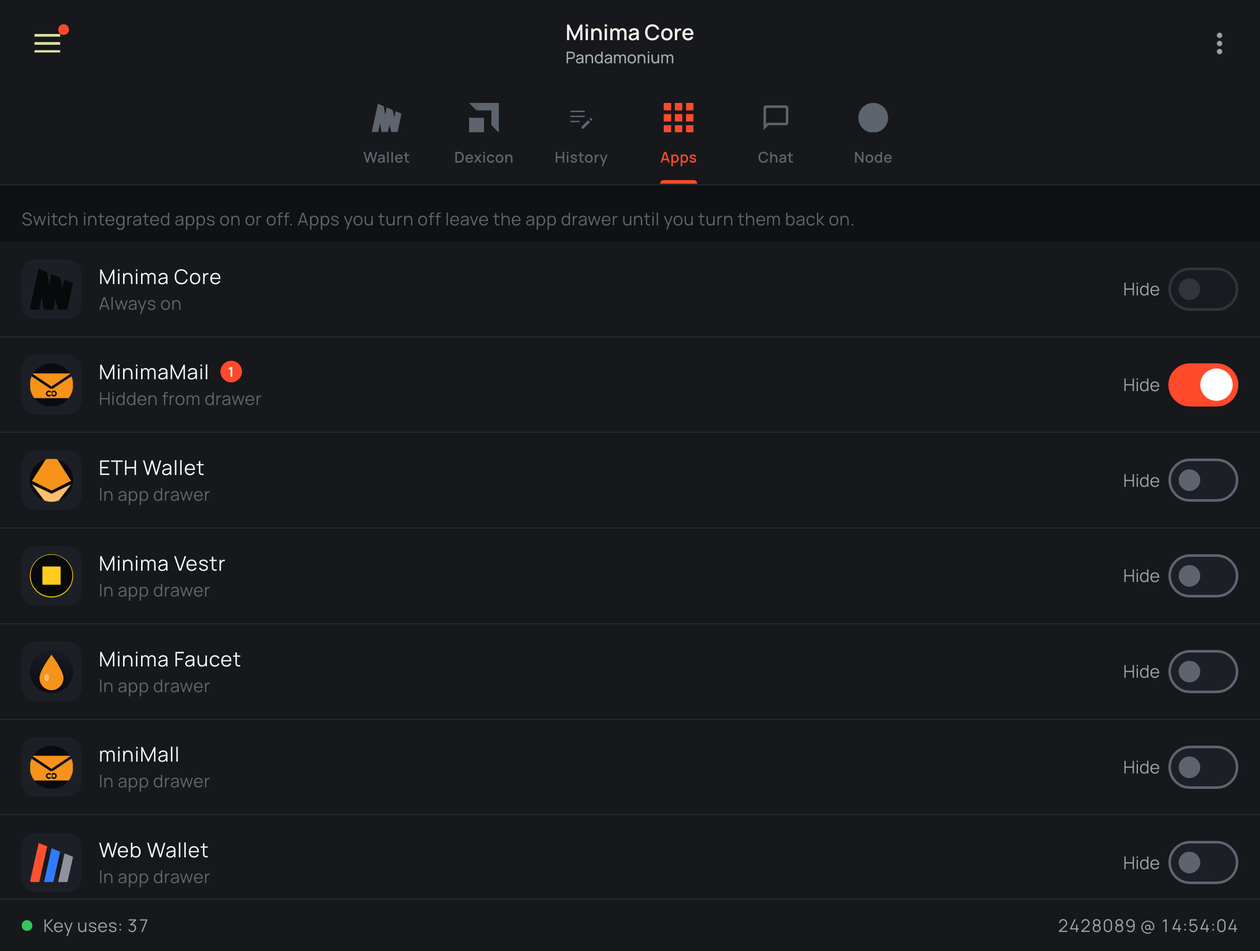
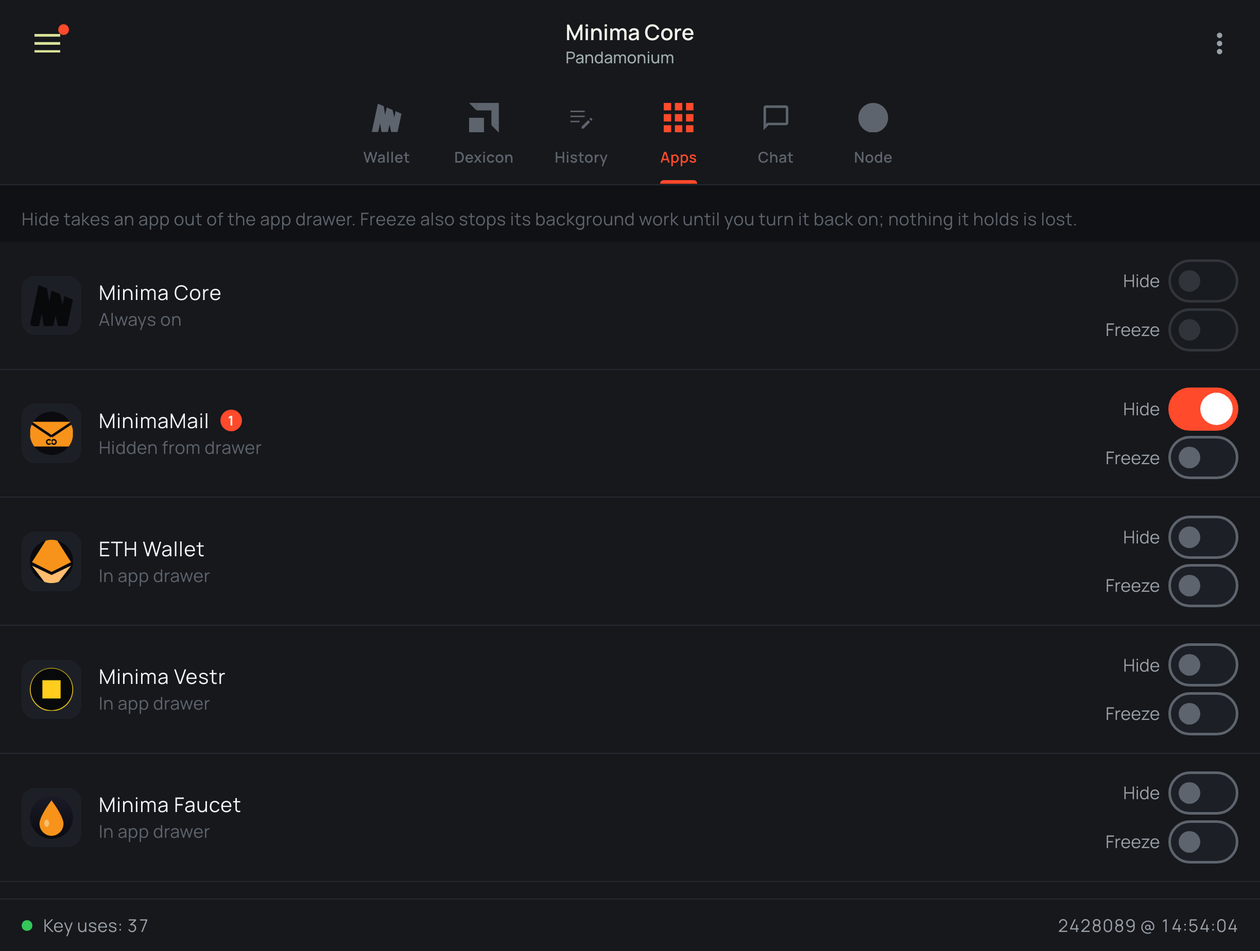
0.19.117: the Apps tab's Freeze switch: each app has Hide and Freeze; Freeze stops the app's background work (mail scan, miniMall scan, Vestr poll, Chat drain, Dexicon's three engines by the wallet-replacement hold), keeps its data, puts its drawer row away, is saved and honoured at startup; Dexicon
Claude-Session: https://claude.ai/code/session_01P3zos5bMGMNjR4T6fhfPNh

diff --git a/main/freeze.js b/main/freeze.js
@@ -1,0 +1,102 @@
+/*
+ * freeze.js — the Apps tab's Freeze switch (0.19.117), after Pandamonium's (PandamoniumHooks.setIntegratedFrozen):
+ * a frozen app does no background work until it is unfrozen, and its data is left exactly as it is.
+ *
+ *   what Freeze stops       mail      the scan for new mail and the address beacon renewals
+ *                           minimall  the scan for orders, payments and messages
+ *                           vestr     its block poll
+ *                           chat      the message drain and the file transfers' loop
+ *                           dexicon   the three trading engines (AtomiX, PandaPools, the Exchange), by the same hold
+ *                                     a wallet replacement uses: nothing is published, answered, scanned or signed
+ *                           ethwallet, faucet, webwallet   nothing: they do no work while closed (the switch only
+ *                                     puts them away)
+ *   never frozen            core (the node and the wallet), parlons (the account is part of the node itself)
+ *
+ * REFUSED WHILE MONEY IS IN FLIGHT. Dexicon is not frozen while a swap, a live market or OTC offer, an unanswered or
+ * unsettled Exchange trade, an order with coins behind it, an unconfirmed pool transaction or an open pool of this
+ * wallet exists, or while any of that cannot be read: each needs the engine running to be claimed, refunded, voided
+ * or kept up. What could not be asked is refused too, and said. (P2P Chance, removed in 0.18.68, has no row: its
+ * settle-only loop runs only while a bet is open and is not something to freeze.)
+ *
+ * The list is kept in the app's config (frozenApps) and honoured at startup: a frozen app's loop is never started
+ * (every start site in main.js goes through start(id)), and Dexicon's engines are held before the node is up.
+ */
+const FREEZABLE = ["mail", "ethwallet", "vestr", "faucet", "minimall", "webwallet", "dexicon", "chat"];
+const NEVER = { core: "Minima Core is the node and the wallet. It cannot be frozen.", parlons: "Parlons is part of the node itself: its account runs inside it. It cannot be frozen. Hide takes it out of the drawer." };
+const clean = (list) => [...new Set((Array.isArray(list) ? list : []).filter(id => FREEZABLE.includes(id)))];
+
+/** Why Dexicon may not be frozen now: [] = nothing in flight and everything could be read. Pure. */
+function dexiconBlockers(w) {
+  w = w || {}; const out = [], n = (k, one, many) => (k === 1 ? "1 " + one : k + " " + (many || one + "s"));
+  const ax = w.atomix;
+  if (!ax) out.push("AtomiX could not be asked about its swaps");
+  else {
+    const swaps = Array.isArray(ax.swaps) ? ax.swaps.length : 0;
+    if (swaps) out.push(n(swaps, "AtomiX swap") + " not finished");
+    if (!ax.ready && ax.hasStore && !Array.isArray(ax.swaps)) out.push("AtomiX has not started, so its swaps could not be read");
+    if (ax.maker) out.push("your AtomiX market is on the book (withdraw it first)");
+    if (ax.otcOffer) out.push("your AtomiX OTC availability is live (withdraw it first)");
+    if (ax.otcDeals) out.push(n(ax.otcDeals, "AtomiX OTC deal") + " open");
+  }
+  const pool = w.pools;
+  if (!Array.isArray(pool)) out.push("PandaPools has not started, so its transactions could not be read");
+  else { const k = pool.filter(r => r && r.type !== "STATUS" && !r.failed && !r.confirmed && (w.now || Date.now()) - Number(r.ts || 0) < 3600000).length; if (k) out.push(n(k, "pool transaction") + " not confirmed yet"); }
+  if (w.ownPools == null) out.push("your pools could not be read");
+  else if (w.ownPools.length) out.push(n(w.ownPools.length, "pool") + " of this wallet " + (w.ownPools.length === 1 ? "is" : "are") + " open (the app keeps " + (w.ownPools.length === 1 ? "it" : "them") + " up)");
+  const dx = w.dexicon;
+  if (dx == null) out.push("the Exchange could not be asked about its trades");
+  else {
+    if (!dx.ready && dx.hasStore && typeof dx.takes !== "number") out.push("the Exchange has not started, so its trades could not be read");
+    if (dx.takes > 0) out.push(n(dx.takes, "Exchange trade") + " sent and not yet answered");
+    if (dx.unknown > 0) out.push(n(dx.unknown, "Exchange fill") + " with an outcome not known yet");
+    if (dx.pending > 0) out.push(n(dx.pending, "Exchange order") + " waiting for a block");
+  }
+  if (w.holds == null) { if (!dx || dx.ready || dx.hasStore) out.push("the Exchange's live orders could not be read"); }
+  else if (w.holds.length) out.push(n(w.holds.length, "coin") + " behind live Exchange orders or trades (cancel the orders first)");
+  return out;
+}
+
+/**
+ * create({ load() -> saved ids, save(ids), engines: { id: { start(), stop() } }, dexiconWork() -> the object
+ * dexiconBlockers reads, log(line) }). An app with no entry in `engines` has no background work.
+ */
+function create(o) {
+  const frozen = new Set(clean(o.load()));
+  const log = o.log || (() => {});
+  const isFrozen = (id) => frozen.has(id);
+  const list = () => [...frozen];
+  /** A start site in main.js: runs the app's start unless it is frozen. → whether it ran. */
+  function start(id) { if (frozen.has(id)) return false; const e = o.engines[id]; if (e && e.start) e.start(); return true; }
+  /** At startup: whatever is frozen and already has something to stop is stopped (Dexicon's hold, before the node is up). */
+  async function applyAtStartup() { for (const id of frozen) { const e = o.engines[id]; if (e && e.stop) { try { await e.stop(); } catch (err) {} } } if (frozen.size) log("[app] frozen at startup, no background work: " + list().join(", ")); }
+  let turn = Promise.resolve();
+  /** Freeze or unfreeze one app. Rejects with the reason, in plain words, when it may not be frozen. → the frozen ids. */
+  function set(id, on) {
+    const run = async () => {
+      id = String(id); on = !!on;
+      if (NEVER[id]) throw new Error(NEVER[id]);
+      if (!FREEZABLE.includes(id)) throw new Error("Unknown app.");
+      if (on === frozen.has(id)) return list();
+      const e = o.engines[id];
+      if (on) {
+        if (id === "dexicon") {
+          let why; try { why = dexiconBlockers(await o.dexiconWork()); } catch (err) { why = ["what is in flight could not be read"]; }
+          if (why.length) throw new Error("Dexicon is still watching funds in flight. It can be frozen once they settle.\n\n" + why.map(l => "• " + l.charAt(0).toUpperCase() + l.slice(1) + ".").join("\n"));
+        }
+        frozen.add(id); o.save(list());             // recorded first: a crash while stopping leaves it frozen, never half running
+        if (e && e.stop) await e.stop();
+        log("[app] " + id + " frozen: its background work is stopped; its data is untouched");
+      } else {
+        frozen.delete(id); o.save(list());
+        if (e && e.start) e.start();
+        log("[app] " + id + " unfrozen: its background work goes on");
+      }
+      return list();
+    };
+    const p = turn.then(run, run); turn = p.then(() => {}, () => {});   // one at a time: two clicks never interleave a stop and a start
+    return p;
+  }
+  return { isFrozen, list, start, set, applyAtStartup };
+}
+
+module.exports = { create, dexiconBlockers, clean, FREEZABLE, NEVER };

diff --git a/main/main.js b/main/main.js
@@ -218,6 +218,7 @@ ipcMain.handle("mcd:flavor", () => ({ id: flavor.id, name: flavor.productName, t
 ipcMain.handle("mcd:getConfig", () => { const c = config.load(); return c; });
 ipcMain.handle("mcd:saveConfig", (_e, patch) => {
   if (patch) delete patch.casinoEnabled;   // P2P Chance is removed: nothing may switch its settle-only gate on (or off)
+  if (patch) delete patch.frozenApps;      // only mcd:freezeSet writes it: it refuses while money is in flight
   const c = config.save(patch || {});
   reserveMode(c);
   if (patch && "openAtLogin" in patch) c.loginItem = loginitem.apply(app, c.openAtLogin);   // transient status for the Settings toast, not persisted
@@ -258,7 +259,7 @@ node.onEnginesHold = async () => { await Promise.all([dexicon.hold(), atomix.hol
 // Before the node is told to quit (node-manager stop(), 0.18.117): what the engines have at the node ends first, so a
 // posted action is recorded by the engine that posted it. Each wait is bounded (Dexicon: main/dexicon.js STOP DRAINS).
 node.onStopping = () => Promise.all([dexicon.stop(), atomix.quiet(10000), pandapools.quiet(10000)]);
-node.onEnginesRelease = () => { atomix.release(); pandapools.release(); dexicon.release(); if (node.state === "running") dexicon.start(); };
+node.onEnginesRelease = () => { if (freeze.isFrozen("dexicon")) return; atomix.release(); pandapools.release(); dexicon.release(); if (node.state === "running") dexicon.start(); };   // a frozen Dexicon stays held (main/freeze.js)
 // Restore from a backup FILE (main/restore.js): the backup's key mode must be this install's recorded one.
 ipcMain.handle("mcd:restoreBackup", (_e, o) => restore.restoreBackup(o, { keyMode: config.load().keyMode, supported: node.blockKeysSupported(),
   running: node.state === "running", run: (c) => node.runResync(c), work: walletWork }));
@@ -277,6 +278,22 @@ ipcMain.handle("mcd:nodeStop", async () => { await node.stop(); return node.snap
 // and said by main/inflight.js for BOTH, so the two warnings cannot disagree (0.18.142). null = could not be asked.
 const inFlightWork = async () => ({ atomix: await atomix.activeWork().catch(() => null), pools: await pandapools.activeWork().catch(() => null),
   dexicon: await dexicon.activeWork().catch(() => null), casino: config.load().casinoEnabled ? casino.open() : null, casinoOn: !!config.load().casinoEnabled });
+// The Apps tab's Freeze (main/freeze.js): what each app's background work is, and the list kept in the config.
+const whenRunning = (fn) => () => { if (node.state === "running") fn(); };
+const freeze = require("./freeze").create({
+  load: () => config.load().frozenApps, save: (ids) => { config.save({ frozenApps: ids }); }, log: (l) => node.log(l),
+  engines: {
+    mail: { start: whenRunning(() => mail.startLoop()), stop: () => mail.stopLoop() },
+    minimall: { start: whenRunning(() => { shop.startLoop().catch(() => {}); }), stop: () => shop.stopLoop() },
+    vestr: { start: whenRunning(() => vestr.startLoop()), stop: () => vestr.stopLoop() },
+    chat: { start: whenRunning(() => chat.startLoop()), stop: () => chat.stopLoop() },
+    dexicon: { start: () => node.onEnginesRelease(), stop: () => node.onEnginesHold() }   // the hold a wallet replacement uses; by the time start runs it is no longer in the frozen list
+  },
+  dexiconWork: async () => Object.assign(await inFlightWork(), { ownPools: await pandapools.ownPools().catch(() => null), holds: (() => { try { return dexicon.coinHolds(); } catch (e) { return null; } })() })
+});
+ethwallet.setFrozen(() => freeze.isFrozen("dexicon"));
+ipcMain.handle("mcd:freezeList", () => freeze.list());
+ipcMain.handle("mcd:freezeSet", (_e, id, on) => freeze.set(id, on));
 ipcMain.handle("mcd:inFlight", async (_e, how) => { const w = inflight.inFlight(await Promise.race([inFlightWork(), new Promise(r => setTimeout(() => r({}), 5000))]), how === "quit" ? "quit" : "shutdown", Date.now()); return { title: w.title, message: w.message, any: w.any }; });
 ipcMain.handle("mcd:nodeRestart", async () => { await node.restart(); return node.snapshot(); });
 ipcMain.handle("mcd:nodeLogs", () => node.logs.slice(-800));
@@ -562,8 +579,9 @@ shop.emitter.on("incoming", (info) => {
   } catch (e) {}
 });
 let mailStarted = false;
-node.on("status", (s) => { if (s.state === "running" && !mailStarted) { mailStarted = true; mail.startLoop(); shop.startLoop().catch(() => {}); } });
-node.on("status", (s) => { if (s.state === "running") chat.startLoop(); });
+// Asked at every "running" (each start is a no-op while its loop runs): an app unfrozen with the node stopped starts with the node.
+node.on("status", (s) => { if (s.state === "running") { mailStarted = true; freeze.start("mail"); freeze.start("minimall"); } });   // not when frozen (Apps tab)
+node.on("status", (s) => { if (s.state === "running") freeze.start("chat"); });
 
 // PandaPools (AMM) — read model + actions; the AMM logic is the reused MDS core (main/pandapools/*).
 ipcMain.handle("mcd:ppPools", () => pandapools.pools());
@@ -784,7 +802,7 @@ ipcMain.handle("mcd:vestrCollect", (_e, coinid, burn) => vestr.collect(coinid, b
 ipcMain.handle("mcd:vestrCalculate", (_e, amount, startMs, endMs, graceHours) => vestr.calculate(amount, startMs, endMs, graceHours));
 vestr.emitter.on("update", () => { if (win && !win.isDestroyed()) win.webContents.send("mcd:vestr"); });
 let vestrStarted = false;
-node.on("status", (s) => { if (s.state === "running" && !vestrStarted) { vestrStarted = true; vestr.startLoop(); } });
+node.on("status", (s) => { if (s.state === "running") { vestrStarted = true; freeze.start("vestr"); } });
 
 // Web Wallet (local, megammr-gated). All node I/O + fund logic lives in webwallet.js; the seed reaches only
 // the local node over loopback. `wwEnableMegammr` sets the -megammr param and restarts (the tab's warning CTA).
@@ -854,6 +872,7 @@ app.whenReady().then(() => {
   // calls nodeStart when the user finishes — otherwise the node would silently start before any choice.
   const c = config.load();
   if (c.keyMode) config.recordKeyMode(c.keyMode);   // writes down the mode of an install from before the mode existed (classic), for good
+  freeze.applyAtStartup();   // a frozen Dexicon's engines are held before the node is up; the other frozen apps are simply never started
   if (c.setupDone && c.walletDone) node.start();
   if (c.openAtLogin) loginitem.apply(app, true);   // re-register every boot: survives a moved AppImage or a reinstall
   updater.start();   // does nothing for a flavour that does not update itself, and for a TEST copy (main/updater.js OFF)

diff --git a/renderer/app.js b/renderer/app.js
@@ -872,6 +872,7 @@ function initShell() {
   });
   initTrayOrder(list);
   applyHiddenApps();
+  api.freezeList().then(l => { FROZEN = l || []; applyHiddenApps(); if (activeView === "apps") renderApps(); }).catch(() => {});
   el("trayBtn").onclick = () => setTray(el("tray").hidden);
   el("trayScrim").onclick = () => setTray(false);
   setTray(!NARROW.matches && store("shellTray") === "1", true);
@@ -1233,6 +1234,7 @@ async function wwDoSend() {
 }
 
 function renderActive() {
+  if (FROZEN.length && thawOnOpen()) return;   // a frozen app that is opened is unfrozen first, then drawn
   if (!running && activeView !== "node") { /* wallet views need the node */ }
   if (activeView === "balances") renderBalances();
   else if (activeView === "receive") renderReceive();
@@ -2743,30 +2745,55 @@ function renderTerminal() {
 }
 
 // ---- Settings --------------------------------------------------------------
-// ---- Apps tab: the phone's "Internal" list, one row per tray app, each with a Hide switch ----
-// Hide takes an app out of the tray until it is switched back; the app itself keeps running (the phone's
-// second switch, Freeze, comes with the engines in a later phase). Minima Core cannot be hidden.
+// ---- Apps tab: the phone's "Internal" list, one row per app, each with a Hide and a Freeze switch ----
+// Hide takes an app out of the tray until it is switched back; the app itself keeps running. Freeze (0.19.117, main/freeze.js)
+// stops the app's background work and puts its tray row away; its data is kept, and unfreezing resumes it. The main process
+// decides whether an app may be frozen and says why not (Dexicon: never while money is in flight). Minima Core is neither.
+// Dexicon and Chat are tabs: they have no drawer row to hide, and opening the tab unfreezes them, as on the phone.
+const APPS_TABS = [{ id: "dexicon", name: "Dexicon", tab: true, icon: "minima-tile.svg" }, { id: "chat", name: "Chat", tab: true, icon: "minima-tile.svg" }];
+const NO_FREEZE = { core: "Minima Core is the node and the wallet", parlons: "Parlons is part of the node itself" };
+let FROZEN = [];   // ids, as the main process holds them (config frozenApps)
 function hiddenApps() { return String(store("shellHidden") || "").split(",").filter(id => id && id !== "core" && TRAY_APPS.some(a => a.id === id)); }
 function applyHiddenApps() {
   const hidden = hiddenApps();
-  document.querySelectorAll(".tray__row").forEach(r => { r.hidden = hidden.includes(r.dataset.app); });
+  document.querySelectorAll(".tray__row").forEach(r => { r.hidden = hidden.includes(r.dataset.app) || FROZEN.includes(r.dataset.app); });
   paintTrayDot();
+}
+/** The line under an app's name (IntegratedAppsAdapter): where it is, and " · Deep frozen" when it is. */
+function appsState(a, hidden, frozen) { return (a.id === "core" ? "Always on" : a.tab ? "A tab" : hidden ? "Hidden from drawer" : "In app drawer") + (frozen ? " · Deep frozen" : ""); }
+async function setFrozen(id, on) {
+  try { FROZEN = await api.freezeSet(id, on); }
+  catch (e) { openDlg("freezeNo", "Not frozen", `<div class="apps-why">${esc(ipcError(e))}</div>`, ""); }
+  applyHiddenApps();
+}
+// Opening a frozen app wakes it for good (PandamoniumHooks: "opening a frozen app unfreezes it").
+function thawOnOpen() {
+  const id = activeView === "chat" ? "chat" : TAB_OF[activeView] === "dexicon" ? "dexicon" : activeView;
+  if (!FROZEN.includes(id)) return false;
+  api.freezeSet(id, false).then(l => { FROZEN = l; applyHiddenApps(); toast((TRAY_APPS.concat(APPS_TABS).find(a => a.id === id) || { name: id }).name + " was frozen. It is running again."); renderActive(); }).catch(() => {});
+  return true;
 }
 function renderApps() {
   const hidden = hiddenApps();
-  el("appsList").innerHTML = TRAY_APPS.map(a => {
-    const core = a.id === "core", off = hidden.includes(a.id);
+  el("appsList").innerHTML = TRAY_APPS.concat(APPS_TABS).map(a => {
+    const core = a.id === "core", off = hidden.includes(a.id), ice = FROZEN.includes(a.id), noIce = NO_FREEZE[a.id];
     return `<div class="apps-row">
     ${a.icon ? `<img class="apps-row__ic" src="${a.icon}" alt="">` : CORE_MARK.replace("tray__ic", "apps-row__ic")}
-    <div class="apps-row__main"><div class="apps-row__name">${esc(a.name)}${a.badge ? `<span class="tab-badge" data-count="${a.badge}" hidden></span>` : ""}</div><div class="apps-row__state">${core ? "Always on" : off ? "Hidden from drawer" : "In app drawer"}</div></div>
-    <label class="apps-row__hide"><span>Hide</span><button class="switch" role="switch" aria-checked="${off}" aria-label="Hide ${esc(a.name)}" data-hide="${a.id}"${core ? " disabled" : ""}></button></label>
+    <div class="apps-row__main"><div class="apps-row__name">${esc(a.name)}${a.badge ? `<span class="tab-badge" data-count="${a.badge}" hidden></span>` : ""}</div><div class="apps-row__state">${appsState(a, off, ice)}</div></div>
+    <div class="apps-row__sw"><label class="apps-row__hide"><span>Hide</span><button class="switch" role="switch" aria-checked="${off}" aria-label="Hide ${esc(a.name)}" data-hide="${a.id}"${core || a.tab ? " disabled" : ""}></button></label>
+      <label class="apps-row__hide"${noIce ? ` title="${esc(noIce)}"` : ""}><span>Freeze</span><button class="switch" role="switch" aria-checked="${ice}" aria-label="Freeze ${esc(a.name)}" data-freeze="${a.id}"${noIce ? " disabled" : ""}></button></label></div>
   </div>`; }).join("");
   paintAppsCounts();
-  el("appsList").querySelectorAll(".switch:not([disabled])").forEach(sw => sw.onclick = () => {
+  el("appsList").querySelectorAll(".switch[data-hide]:not([disabled])").forEach(sw => sw.onclick = () => {
     const id = sw.dataset.hide, now = hiddenApps();
     store("shellHidden", (now.includes(id) ? now.filter(x => x !== id) : now.concat(id)).join(","));
     applyHiddenApps(); renderApps();
     const again = el("appsList").querySelector(`.switch[data-hide="${id}"]`); if (again) again.focus();
+  });
+  el("appsList").querySelectorAll(".switch[data-freeze]:not([disabled])").forEach(sw => sw.onclick = async () => {
+    const id = sw.dataset.freeze; sw.disabled = true;
+    await setFrozen(id, !FROZEN.includes(id));
+    if (activeView === "apps") { renderApps(); const again = el("appsList").querySelector(`.switch[data-freeze="${id}"]`); if (again && !document.querySelector(".overlay--dlg")) again.focus(); }
   });
 }
 // ---- Minima Faucet: the one screen of Pandamonium's Faucet (apks/base integrated/faucet, pm_faucet_activity_main.xml) ----

diff --git a/scripts/dev-preview/stub.js b/scripts/dev-preview/stub.js
@@ -46,6 +46,7 @@
     items: [{ product: "Fake mug", quantity: 2, unitPrice: "12.5", lineTotal: "25.000000" }], shipping: "Domestic", delivery: "1 Preview Street, Nowhere", note: "Preview note", counterparty: "0x" + "B0FA4E".repeat(11).slice(0, 64) });
   const SHOP_ORDERS = [SHOP_ORDER("ORD-FAKE0001", "sell", "PENDING", false, 240000), SHOP_ORDER("ORD-FAKE0002", "sell", "PAID", true, 7200000), SHOP_ORDER("ORD-FAKE0003", "buy", "PENDING", false, 90000000)];
   const LOGS_ON = { scripts: false, mining: false, blocks: true, networking: false, ibd: false, maxima: false };
+  let FROZEN_IDS = (Q.get("frozen") || "").split(",").filter(Boolean);
   const FAKE_PK = (n) => "0x" + (n + "FA4E".repeat(16)).slice(0, 64);
   const AX_BOOK = { scanned: 3, makers: 2, bestBid: 0.99, bestAsk: 1.01, bidCap: 100, askCap: 100, currency: "mxusdt", label: "mxUSDT", pricingParity: true,
     bids: [{ signer: FAKE_PK("D1"), p: 0.99, cap: 100, mine: false }, { signer: FAKE_PK("A9"), p: 0.985, cap: 100, mine: true }, { signer: FAKE_PK("D2"), p: 0.98, cap: 10000, mine: false }],
@@ -324,6 +325,10 @@
       { tokenid: "0x" + "5A1E".repeat(16), name: "0x5A1E5A1E5A", confirmed: "7", unconfirmed: "0", sendable: "0", decimals: 0 }],
     wwKeyuses: async () => ({ keyuses: 3, ack: Q.get("ww") === "ack" }), wwAckKeyuses: async (a, n) => ({ keyuses: n, ack: true }),
     wwSend: async () => (Q.get("wws") === "unknown" ? { ok: false, ambiguous: true, message: "Send status UNKNOWN (preview)" } : { ok: true, txnid: FAKE_PK("7E") }), wwEnableMegammr: async () => true,
+    // Apps tab: ?frozen=mail,vestr starts with those frozen; freezing Dexicon is refused with the main process's wording
+    freezeList: async () => FROZEN_IDS.slice(),
+    freezeSet: async (id, on) => { if (on && id === "dexicon") throw new Error("Dexicon is still watching funds in flight. It can be frozen once they settle.\n\n• 1 AtomiX swap not finished.\n• Your AtomiX market is on the book (withdraw it first).");
+      FROZEN_IDS = on ? FROZEN_IDS.concat(id) : FROZEN_IDS.filter(x => x !== id); return FROZEN_IDS.slice(); },
     logsSave: async () => "/Users/preview/Documents/minima-node-log-preview.txt",
     faucet: async () => ({ status: true, message: "0.0001 Minima is on its way (preview, nothing was sent)" }),
     // miniMall: ?shop=empty

diff --git a/scripts/dev-preview/build.js b/scripts/dev-preview/build.js
@@ -80,6 +80,7 @@ if (process.argv.includes("--shots")) {
     ["terminal", "view=terminal&tray=0"], ["terminal-run", "view=terminal&tray=0&fill=%23termIn%3Dbalance&do=%23termRun"], ["terminal-run-1440x900", "view=terminal&tray=0&fill=%23termIn%3Dbalance&do=%23termRun", 1440, 900, 1],
     ["terminal-send", "view=terminal&tray=0&fill=%23termIn%3Dsend%20amount%3A1%20address%3A0xFA4E&do=%23termRun"],
     ["logs", "view=logs&tray=0"], ["logs-1440x900", "view=logs&tray=0", 1440, 900, 1], ["logs-filter", "view=logs&tray=0&fill=%23logsFilter%3Dblock"], ["logs-paused", "view=logs&tray=0&do=%23logsPause%7C%5Bdata-logchip%3Dmining%5D"],
+    ["apps-frozen", "view=apps&tray=0&frozen=mail,vestr"], ["apps-frozen-tray", "view=apps&tray=1&frozen=mail,vestr"], ["apps-freeze-refused", "view=apps&tray=0&scroll=300&do=%5Bdata-freeze%3Ddexicon%5D"], ["apps-1440x900", "view=apps&tray=1&frozen=mail", 1440, 900, 1],
     ["ethwallet-export", "view=ethwallet&tray=0&do=%23ewSettings%7C.adlg__item"], ["ethwallet-menu", "view=ethwallet&tray=0&do=.ew-more"],
 ["parlons", "view=parlons&tray=1&pl=ready"], ["parlons-starting", "view=parlons&tray=0"], ["parlons-error", "view=parlons&tray=0&pl=error"], ["parlons-1440x900", "view=parlons&tray=1&pl=ready", 1440, 900, 1],
     ["chat", "view=chat&tray=0"], ["chat-thread", "view=chat&tray=0&chat=thread"], ["chat-attach", "view=chat&tray=0&chat=attach"], ["chat-file", "view=chat&tray=0&chat=file"], ["chat-failure", "view=chat&tray=0&chat=failure"],

diff --git a/main/config.js b/main/config.js
@@ -78,6 +78,7 @@ const DEFAULTS = {
                              // gets that wallet's existing bets and offers paid out. Do not delete this key.
   coinGuard: true,           // the shared coin reservation (main/reserve.js). false = the whole guard is a passthrough
   coinGuardSends: "observe", // what it does to `send` and `consolidate`: "off" | "observe" (log only, the default) | "enforce"
+  frozenApps: [],            // the Apps tab's Freeze: ids of the apps whose background work is stopped (main/freeze.js)
   openAtLogin: false         // "Open at login": register the app with the OS (mac/win) or ~/.config/autostart (linux)
                              // Every key the renderer saves MUST be declared here — save() drops any key DEFAULTS
                              // does not name (the 0.16.97 casinoDollar regression). scripts/config-keys-test.cjs
@@ -138,6 +139,7 @@ function sanitisePatch(cfg) {
       if (k === "heapMb" && (n < 0 || n > 262144)) continue;
       out[k] = n; continue;
     }
+    if (k === "frozenApps") { out[k] = require("./freeze").clean(v); continue; }
     if (k === "coinGuardSends") { if (v === "off" || v === "observe" || v === "enforce") out[k] = v; continue; }
     if (want === "string") { if (typeof v === "string") out[k] = v; continue; }
     out[k] = v;

diff --git a/main/ethwallet.js b/main/ethwallet.js
@@ -30,7 +30,10 @@ const addToken    = (addr) => atomix.ethAddToken(addr);
 const removeToken = (addr) => atomix.ethRemoveToken(addr);
 const sendMax     = (asset) => atomix.ethSendMax(asset);
 const sendReview  = (asset, to, amt) => atomix.ethSendReview(asset, to, amt);
-const sendExecute = (asset, to, amt, tier) => atomix.ethSendExecute(asset, to, amt, tier);
+// A frozen Dexicon (Apps tab, main/freeze.js) holds the engine this wallet signs with: a send says so in its own words.
+let dexiconFrozen = () => false;
+const sendExecute = (asset, to, amt, tier) => (dexiconFrozen() ? Promise.reject(new Error("Dexicon is frozen, and this wallet sends through its Ethereum engine. Unfreeze Dexicon on the Apps tab, then send again. Nothing was sent."))
+  : atomix.ethSendExecute(asset, to, amt, tier));
 const exportKey   = () => atomix.exportKey();
 
 /**
@@ -61,5 +64,5 @@ const setRpc      = (url) => atomix.ethSetRpc(url);
 
 module.exports = {
   emitter, status, balances, tokens, addToken, removeToken,
-  sendMax, sendReview, sendExecute, exportKey, exportKeyGated, swapsInFlight, EXPORT_PHRASE, setRpc
+  sendMax, sendReview, sendExecute, setFrozen: (fn) => { dexiconFrozen = fn; }, exportKey, exportKeyGated, swapsInFlight, EXPORT_PHRASE, setRpc
 };

diff --git a/renderer/shell.css b/renderer/shell.css
@@ -324,6 +324,9 @@ svg.apps-row__ic { fill: #08090B; }
 
 .apps-row__hide { flex: 0 0 auto; display: flex; align-items: center; margin-left: 10px; font-size: 13px; font-weight: 400; color: var(--dim); cursor: pointer; }
 .apps-row__hide span { margin-right: 6px; }
+.apps-row__sw { flex: 0 0 auto; display: flex; flex-direction: column; align-items: flex-end; gap: 4px; }
+.apps-row__sw .apps-row__hide { justify-content: flex-end; }
+.apps-why { padding: 12px 26px; white-space: pre-wrap; font-size: 14px; line-height: 1.5; color: var(--text); }
 /* Material switch: 52 x 32 track; a 16 thumb when off, a 24 white thumb on Minima orange when on */
 .switch { position: relative; flex: 0 0 52px; width: 52px; height: 32px; padding: 0; border-radius: 999px; cursor: pointer;
   background: var(--surface2); border: 2px solid var(--dim2); transition: background .15s, border-color .15s; }

diff --git a/main/preload.js b/main/preload.js
@@ -30,6 +30,8 @@ contextBridge.exposeInMainWorld("mcd", {
   nodeStatus: () => ipcRenderer.invoke("mcd:nodeStatus"),
   nodeStart: () => ipcRenderer.invoke("mcd:nodeStart"),
   nodeStop: () => ipcRenderer.invoke("mcd:nodeStop"),
+  freezeList: () => ipcRenderer.invoke("mcd:freezeList"),   // the frozen apps' ids (Apps tab)
+  freezeSet: (id, on) => ipcRenderer.invoke("mcd:freezeSet", id, on),   // rejects with the reason when the app may not be frozen
   inFlight: (how) => ipcRenderer.invoke("mcd:inFlight", how),   // what a Shutdown ("shutdown") or a Quit ("quit") would interrupt: { title, message, any }
   nodeRestart: () => ipcRenderer.invoke("mcd:nodeRestart"),
   nodeReclaim: () => ipcRenderer.invoke("mcd:nodeReclaim"),

diff --git a/renderer/index.html b/renderer/index.html
@@ -212,7 +212,7 @@
       </section>
 
       <section class="view" id="view-apps">
-        <div class="apps-help">Switch integrated apps on or off. Apps you turn off leave the app drawer until you turn them back on.</div>
+        <div class="apps-help">Hide takes an app out of the app drawer. Freeze also stops its background work until you turn it back on; nothing it holds is lost.</div>
         <div class="apps-list" id="appsList"></div>
       </section>
 

diff --git a/docs/PANDAMONIUM_DESKTOP_PLAN.md b/docs/PANDAMONIUM_DESKTOP_PLAN.md
@@ -258,6 +258,7 @@ complete. miniMall is kept. Nothing is pushed or released without the owner's wo
 | 0.19.114 | 5a | `renderFaucet` (the original's strings, `faucetBanner` when the node is stopped), `.fc-*` in `renderer/apps.css`; `main/faucet.js` unchanged (sha256 pinned); captures `*-faucet*.png` | `apps-money.test.cjs` (30) |
 | 0.19.115 | 5a | `#view-terminal` (`termBanner`, `termOut`, `termIn`, `termRun`), `TERM_BANNER`, `TERM_ITEMS`, `termJsonParts`, `termNode`, `appendTerm(text, kind)`, `termRun`, `termSendNote`; `.term-*` and `--t-*` in `renderer/apps.css`; completion unchanged; new `scripts/apps-screens.test.cjs`; captures `*-terminal*.png` | `apps-screens.test.cjs` (4) |
 | 0.19.116 | 5a | `#view-logs` (`logsPause`, `logsClear`, `logsSave`, `logsFilter`, `logsChips`, `logsBox`), `LOGS_CHIPS`, `logsRender`, `logsAppend`, `logsSync`, `paintLogChips`, `renderLogs`, `appendLog` (textContent only); main `nodelog.forFile` (redacted again, 2 MB bound), IPC `mcd:logsSave`; `.logs-*` in `renderer/apps.css`; captures `*-logs*.png` | `apps-screens.test.cjs` (7) |
+| 0.19.117 | 5a | `main/freeze.js` (`create`: `start`, `set`, `list`, `isFrozen`, `applyAtStartup`; `dexiconBlockers`, `clean`, `FREEZABLE`, `NEVER`), config `frozenApps`, IPC `mcd:freezeList` / `mcd:freezeSet`; `main.js` start sites through `freeze.start`, `onEnginesRelease` skips a frozen Dexicon, `dexiconWork` over `inFlightWork`, `ethwallet.setFrozen`; renderer `FROZEN`, `APPS_TABS`, `appsState`, `setFrozen`, `thawOnOpen`, `renderApps` (two switches); owed list after Phase 5a in the plan; captures `*-apps-frozen*.png`, `*-apps-freeze-refused.png` | `apps-screens.test.cjs` (11), `shell-test.cjs` (14) |
 
 Version line (19 Nov 2026): the released main line owns 0.18.65 to 0.18.69 (its Mail work). This branch reused those numbers, up to 0.18.148, for unpushed commits; they are not renumbered. `v0.18.69` was merged at 0.19.0 and every later change on this branch is 0.19.x.
 
@@ -287,6 +288,15 @@ Owed items (recorded 19 Nov 2026 with the room ② review; none of these is buil
   (`-legacy-keys-YYYYMMDD`); a name of its own is owed.
 - Look-alike token names outside Cyrillic and Greek get the "(not MxUSD)" mark and the token id, but not the extra
   warning line (0.18.135).
+
+Owed after Phase 5a (recorded 20 Nov 2026, 0.19.108 to 0.19.117; none of these is built):
+- ETH Wallet: "Import key" (a second key store and signer beside the node-derived key; on the phone swaps keep the node's key, here one engine serves both). Token logos (the phone fetches them from a CDN).
+- Vestr: nothing owed against the native app. Nicknames and search exist only in the blue MiniDapp.
+- miniMall: Studio's NFTs tab and StateNFT collections, the Inbox's NFT delivery and CSV export, enquiries from a storefront, the NFT storefront grid and timeline, the buyer's product page, the buyer's list of added shops kept across restarts. Each needs `main/shop.js` work first. The order total is still worked out through a floating-point number and written with six decimals, as before and as the wire format has it: exact for prices of up to six decimals, not looked at beyond that.
+- Web Wallet: nothing owed; "Remember me", "Generate secret key" and a typed per-send key-uses figure are left out on purpose.
+- Logs: the node manager cuts a line of over 400 characters in the on-screen ring (the file on disk has it whole): a long identifier in such a line is cut on screen. Not changed here.
+- Freeze: Dexicon's three engines freeze together (one switch); a frozen Dexicon makes ETH Wallet's Send refuse with the reason. P2P Chance has no row. Chat and Dexicon rows have no Hide (they are tabs).
+- Terminal: a MINIMA `send` typed with no `fromaddress:` may be given one by the app (the beacon-dust pin of 0.16.x); the Terminal says so. Whether the Terminal should bypass that pin is the owner's call.
 
 ## 9. Checks that need a real node (owner, on the dev node; nothing here is proven yet)
 
@@ -422,6 +432,7 @@ Phases 0 to 2 were verified by tests and a browser preview only. The app has not
 - [ ] Faucet (0.19.114, owner's choice whether to make a real request): Get My Address fills this wallet's address whole; Request Minima shows the faucet's own answer in green or red.
 - [ ] Terminal (0.19.115, dev node): the banner shows the node's version; `status` prints coloured JSON; Tab completes; `send amount:0.0001 address:<own address>` shows the note, goes through, and the reply's `params` show whether `fromaddress` was added; the same with `fromaddress:` typed is sent as typed. With a Dexicon order holding coins and the coin guard on Observe, a typed send is not refused and Logs has one `[coins] observe:` line.
 - [ ] Logs (0.19.116, dev node): the chips show what `logs` answers on this node (confirm the answer carries `scripts`, `mining`, `blocks`, `networking`, `ibd`, `maxima` as true / false: read from the phone's source, not seen from a node); Mining on: mining lines appear, off: they stop; Filter narrows; Pause holds the text and Resume catches up; Save to file writes the text shown, and a Parlons message line in it reads "(text not logged)".
+- [ ] Freeze (0.19.117, dev node): freeze MinimaMail: its drawer row goes, Logs says "mail frozen", a mail sent to this node from a phone does not appear; unfreeze: it appears within a scan (if it is older than the scan depth, run Mail's backfill). Restart the app with Mail frozen: it stays frozen and nothing scans. Freeze Dexicon with a swap in flight, then with a market published, then with a pool open: each is refused with its reason. With nothing in flight it freezes; rooms ①, ② and ③ do nothing in the background (no AtomiX, PandaPools or Dexicon lines in Logs); ETH Wallet's Send says Dexicon is frozen; opening the Dexicon tab unfreezes it and the engines come back by themselves. NOT proven without a node: that the three engines resume cleanly from a hold that lasted hours, and that a restore run while Dexicon is frozen leaves it held.
 
 ## 10. Proposed addition to the Parlons node (for the owner to approve; nothing in the maxima repo was changed)
 

diff --git a/CHANGELOG.md b/CHANGELOG.md
@@ -7,6 +7,17 @@ matching [GitHub Release](../../releases).
 
 ---
 
+## [0.19.117] — The Apps tab's Freeze switch (owed since Phase 1)
+
+- **Each app on the Apps tab has Hide and Freeze**, as Pandamonium's Internal list. Freeze stops the app's background work, puts its drawer row away and adds "· Deep frozen" to its line; nothing the app holds is touched, and unfreezing resumes it. The list is kept in the app's config (`frozenApps`) and honoured at startup: a frozen app's loop is never started.
+- **What Freeze stops** (`main/freeze.js`): MinimaMail, the scan for new mail and the address renewals; miniMall, the scan for orders, payments and messages; Minima Vestr, its block poll; Chat, the message drain and the file transfers; Dexicon, the three trading engines (AtomiX, PandaPools, the Exchange) through the same hold a wallet replacement uses. ETH Wallet, Minima Faucet and Web Wallet do no work while closed, so Freeze only puts them away.
+- **Dexicon is refused while money is in flight**, with the reasons listed: an unfinished AtomiX swap, a market on the book or OTC availability live, an open OTC deal, an unconfirmed pool transaction, an open pool of this wallet, an Exchange trade unanswered or unsettled, coins behind live Exchange orders; and equally when any of that cannot be read. "Dexicon is still watching funds in flight. It can be frozen once they settle." Unfreezing is never refused.
+- **Never frozen:** Minima Core, and Parlons (its account runs inside the node). P2P Chance, removed in 0.18.68, has no row: its settle-only loop runs only while a bet is open.
+- Dexicon and Chat are tabs: their rows have Freeze and no Hide, and opening the tab unfreezes them, as opening a frozen app does on the phone.
+- While Dexicon is frozen, ETH Wallet (which signs through Dexicon's Ethereum engine) refuses a send and says to unfreeze Dexicon first. A wallet command that holds and releases the engines leaves a frozen Dexicon held.
+- The window cannot write the list itself: `mcd:saveConfig` drops `frozenApps`; only `mcd:freezeSet` changes it, after the check.
+- The owed items after Phase 5a are listed in the plan.
+
 ## [0.19.116] — Logs as Pandamonium's: Pause, the filter, the verbosity chips, Save to file (Phase 5a)
 
 - **The screen is Pandamonium's Logs** (apks/base `view_logs.xml`, `LogsView`): three equal buttons **Pause** (Resume) | **Clear** | **Save to file** (the phone's Share), the **Filter** field (any case, anywhere in the line), the row of chips **Scripts, Mining, Blocks, Networking, Initial block download (IBD), Maxima**, and the log in monospace beneath, in the shell's colours, light and dark.
